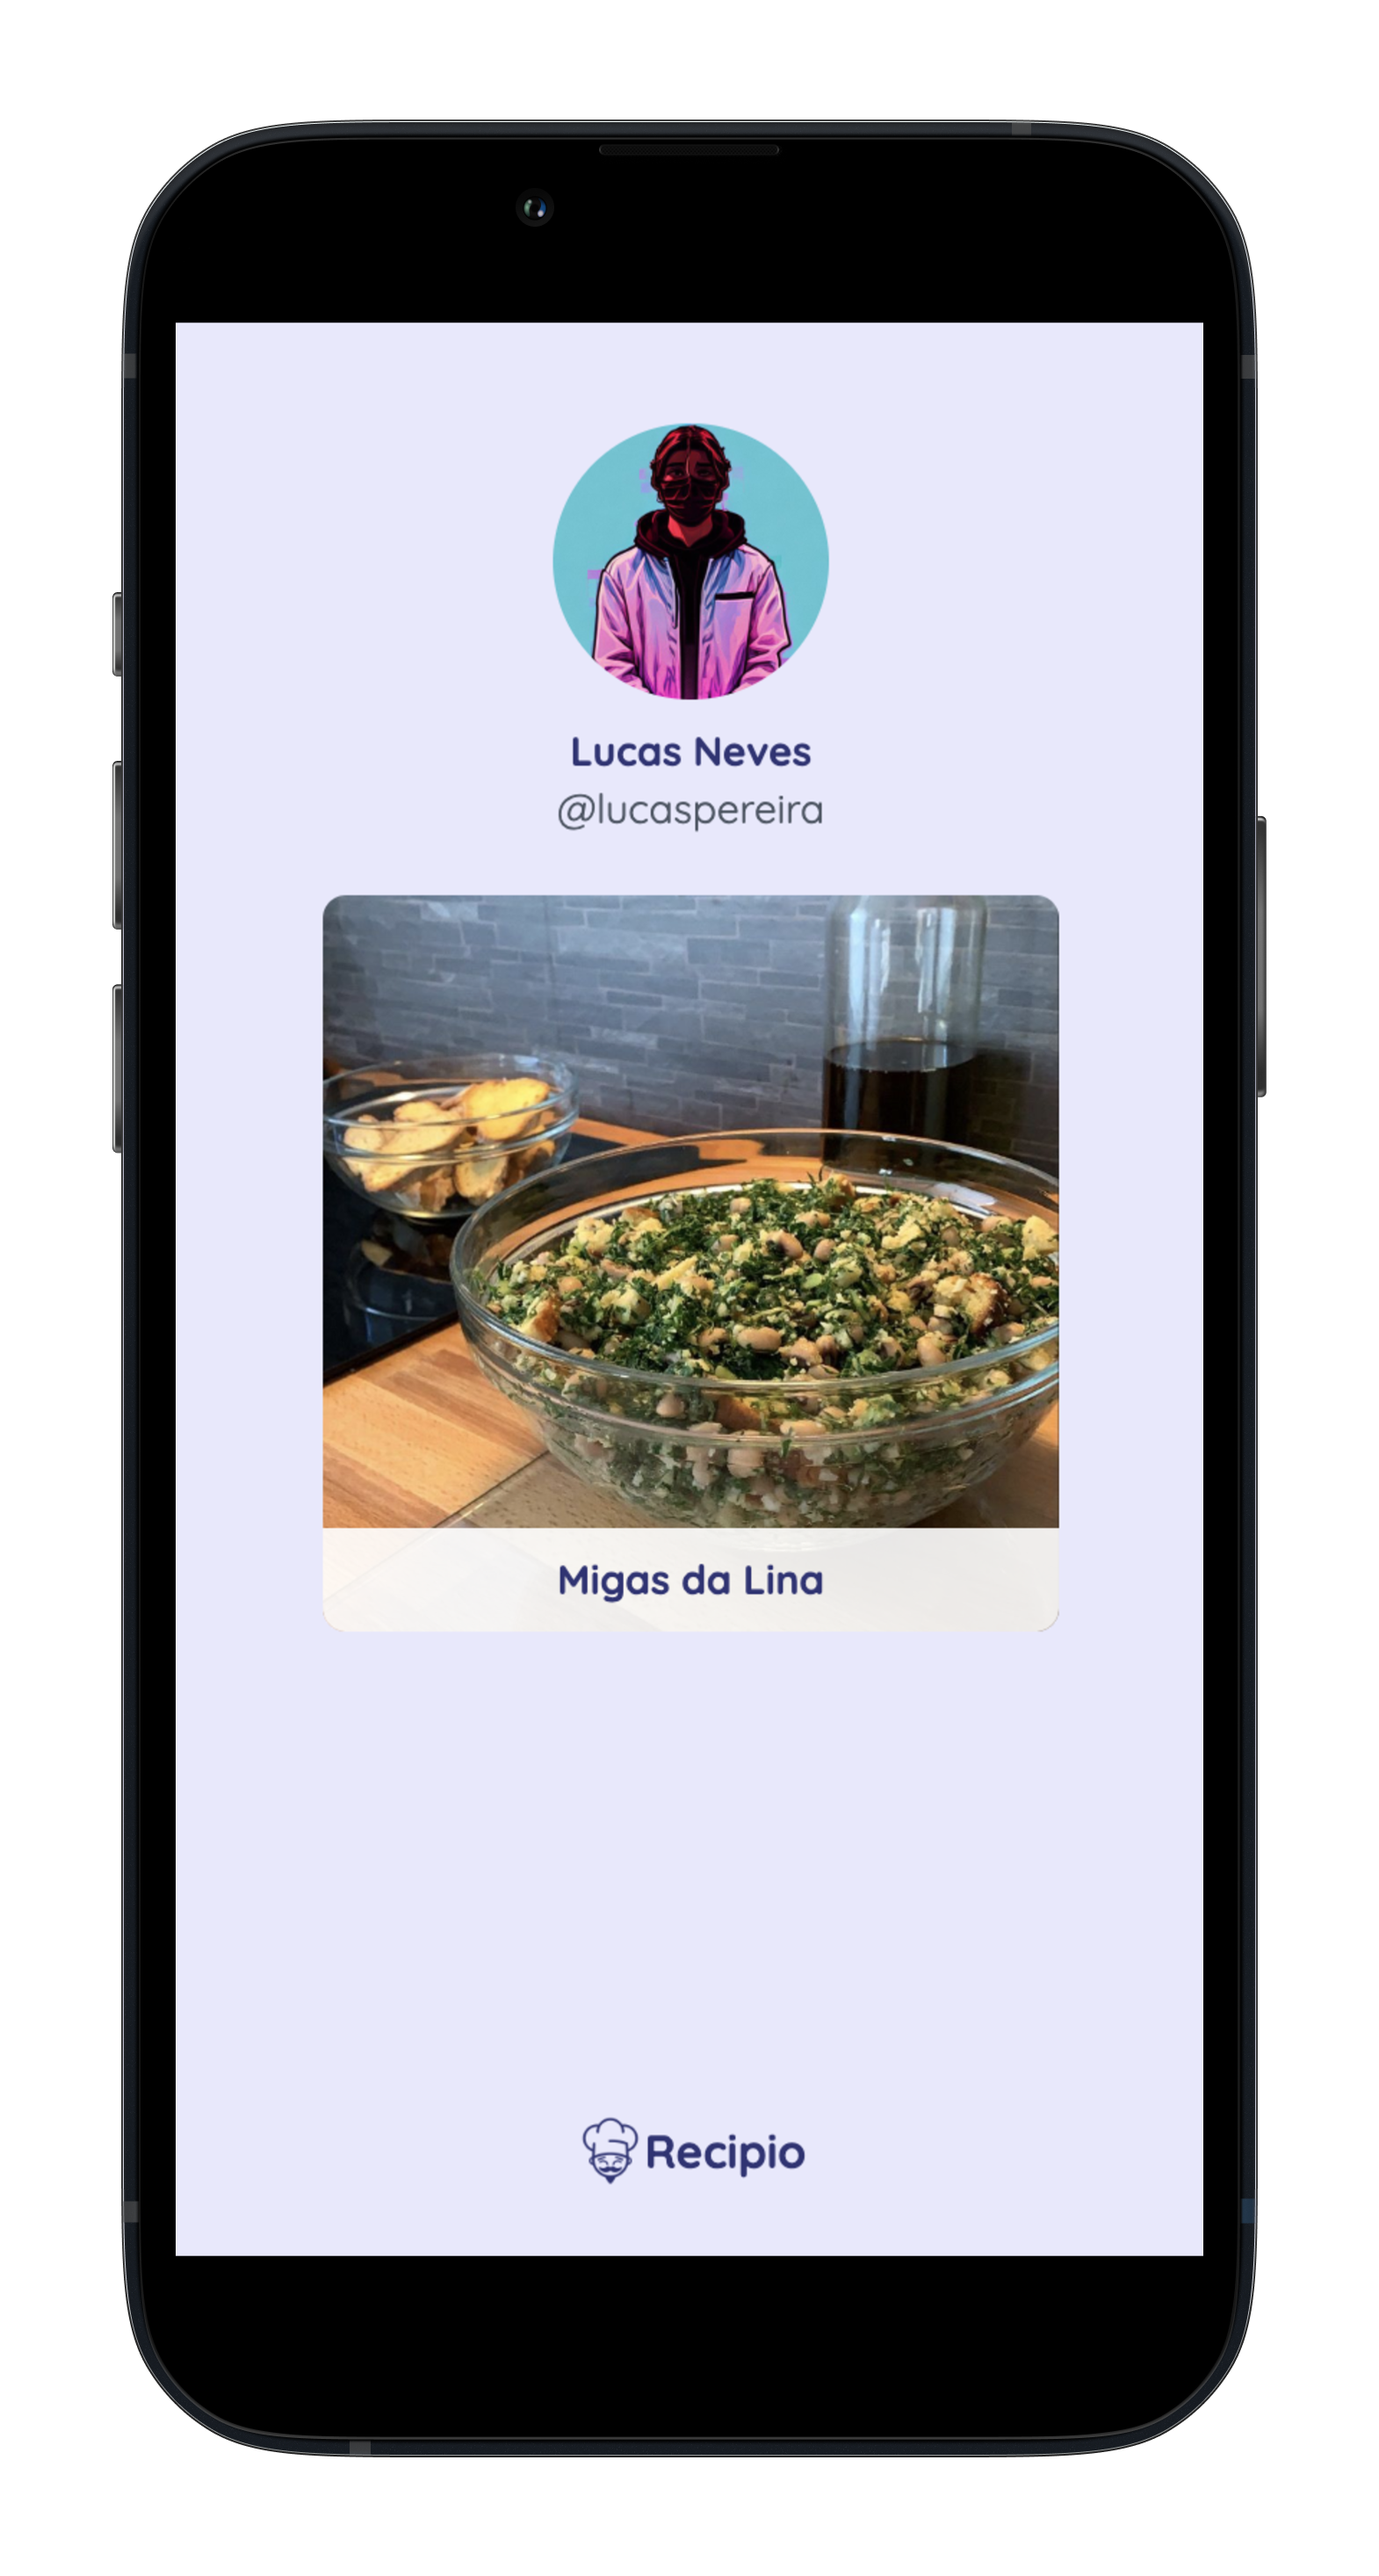
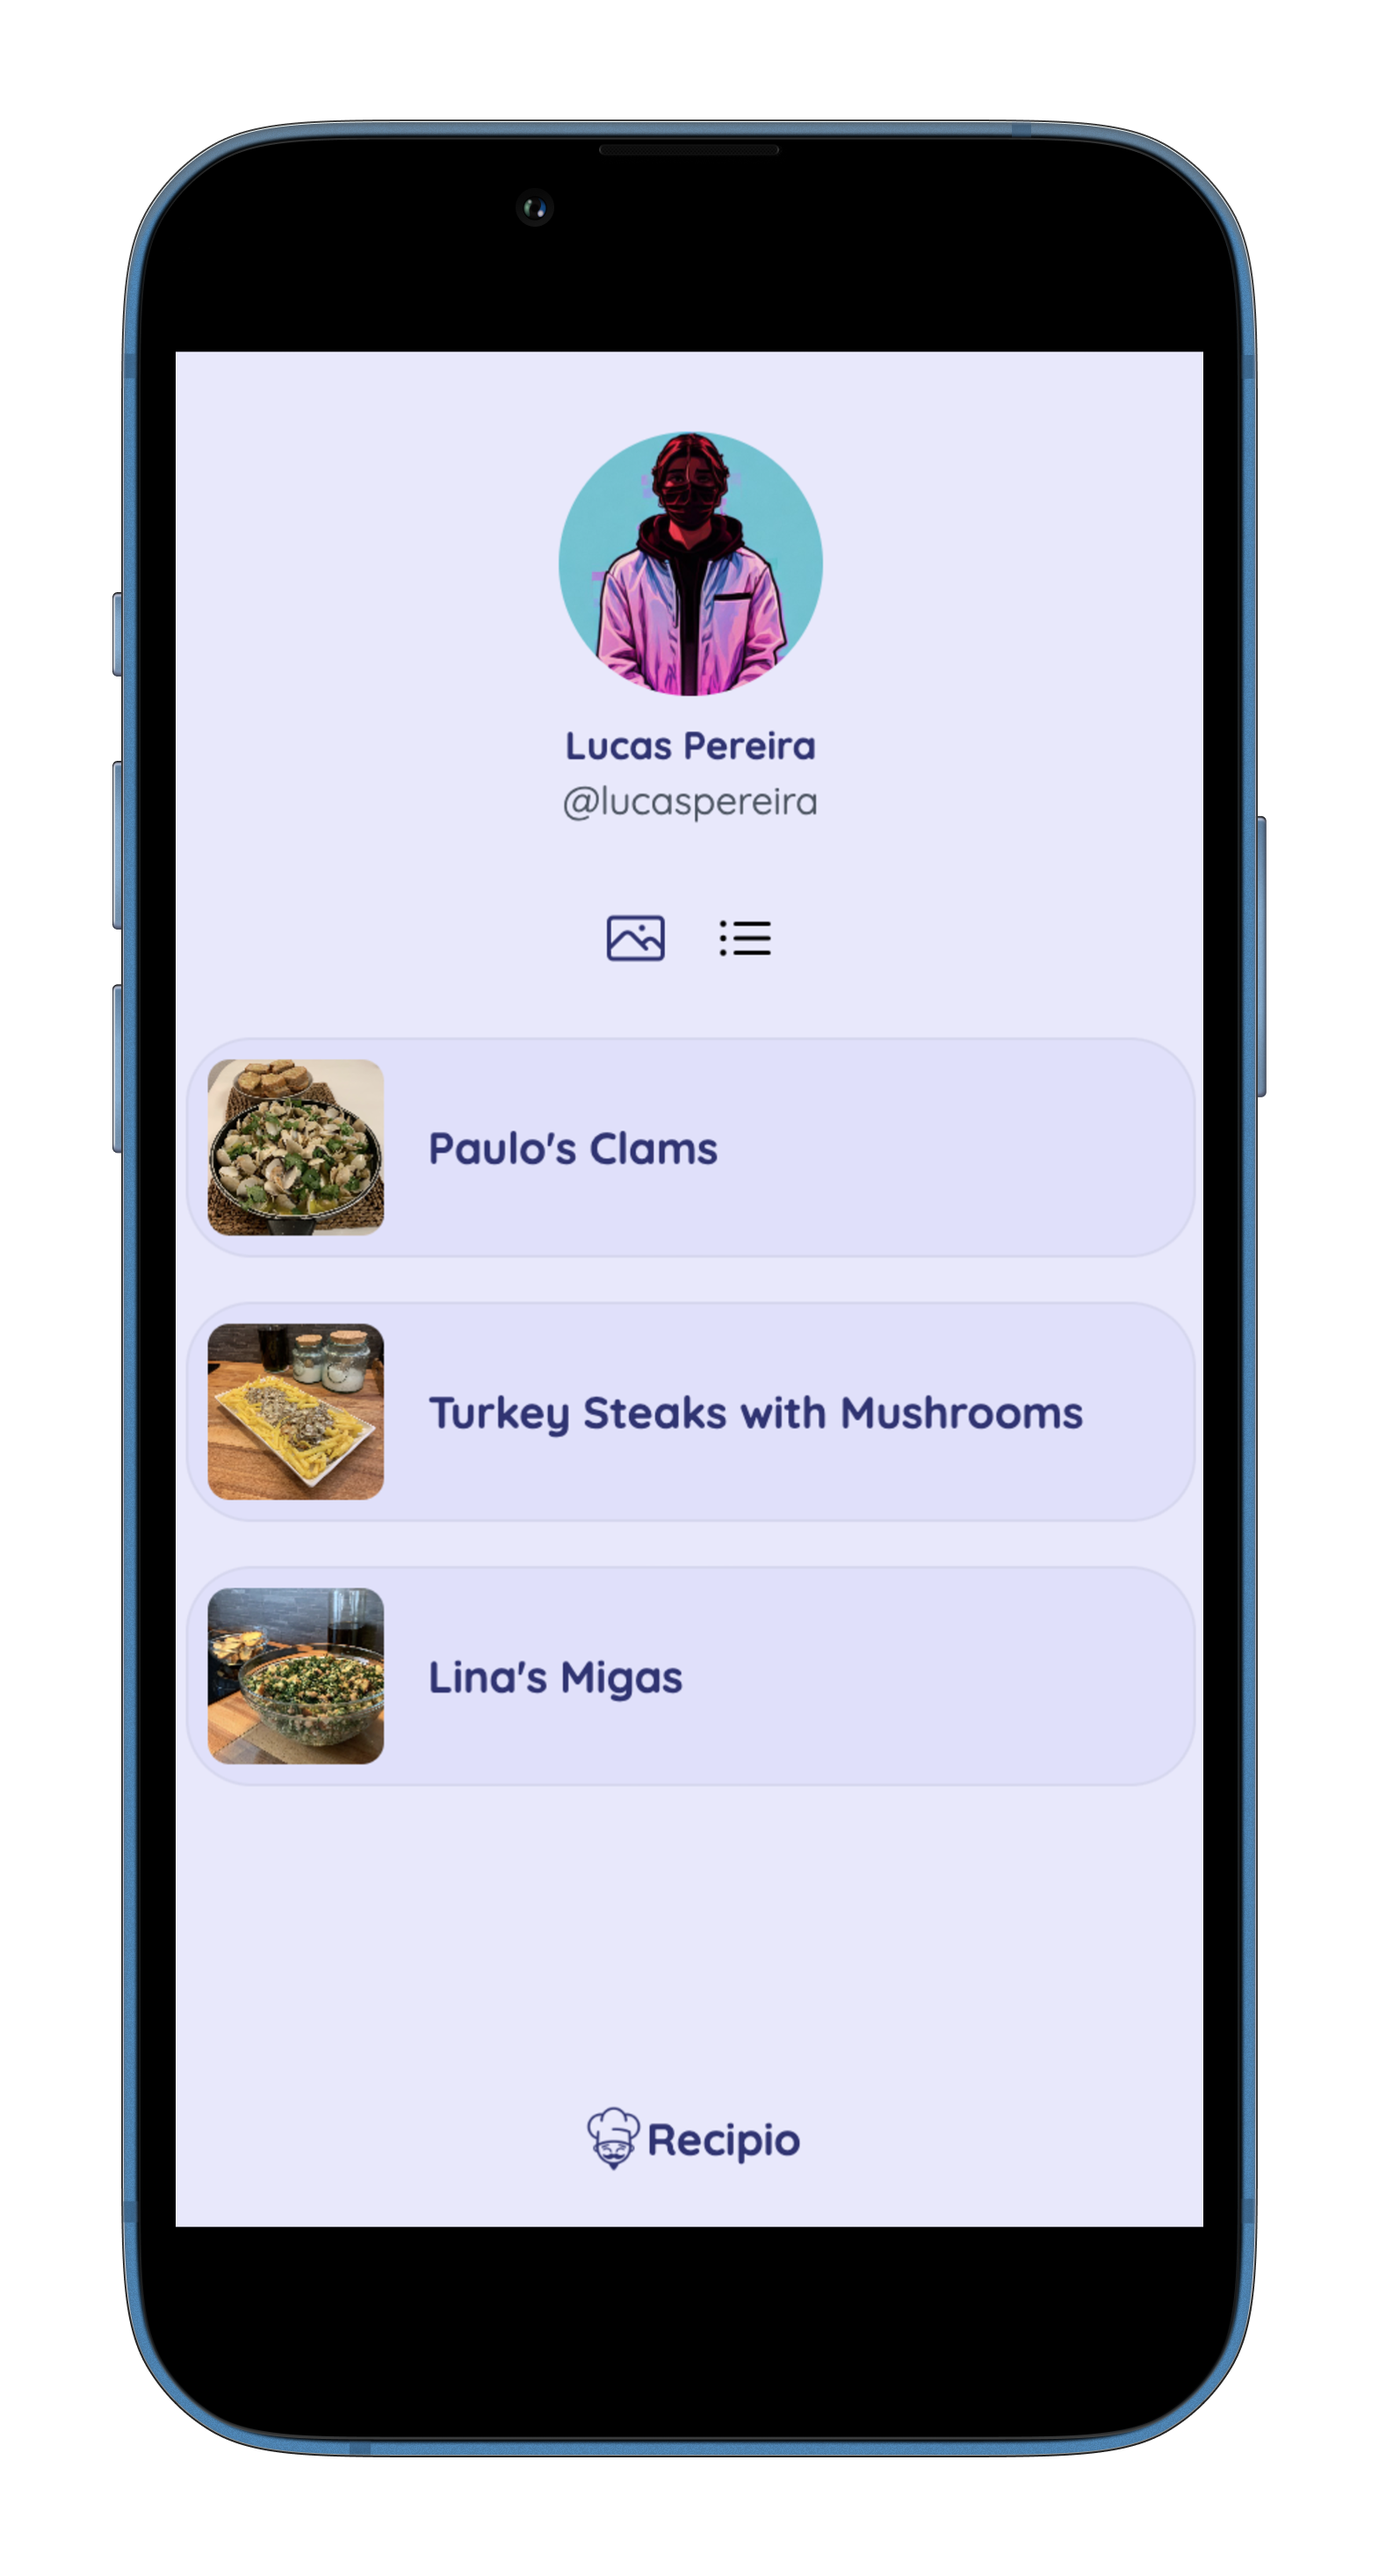
updated mockup + improved viewmode + check safety for window references

Changed region(s): [[0.0624, 0.0621, 0.9363, 0.9311], [0.1248, 0.9311, 0.8739, 0.9621], [0.1561, 0.031, 0.8427, 0.0621]]

diff --git a/src/routes/dashboard/profile/+page.svelte b/src/routes/dashboard/profile/+page.svelte
@@ -4,21 +4,34 @@
     import {applyAction, enhance} from "$app/forms";
     import {Avatar} from "@skeletonlabs/skeleton";
     import {ArrowUpRight, Icon, Pencil, PencilSquare} from "svelte-hero-icons";
+    import {onMount} from "svelte";
 
     export let data;
     export let form;
-    let loading
-    $: loading = false
-    const showPreview = (event) => {
-        const target = event.target
-        const files = target.files
+    let iframeSrc;
 
-        if (files.length > 0) {
-            const src = URL.createObjectURL(files[0])
-            const preview = document.getElementById('avatar-preview')
-            preview.src = src
-        }
+    onMount(() => {
+        iframeSrc = `${window.location.protocol}//${window.location.host}/${data.user.username}`;
+    });
+
+    let loading
+    $: if (typeof window !== 'undefined') {
+        loading = false;
     }
+
+
+    const showPreview = (event) => {
+        if (typeof document !== 'undefined') {
+            const target = event.target;
+            const files = target.files;
+
+            if (files.length > 0) {
+                const src = URL.createObjectURL(files[0]);
+                const preview = document.getElementById('avatar-preview');
+                preview.src = src;
+            }
+        }
+    };
 
     const submitUpdateProfile = () => {
         loading = true
@@ -68,7 +81,8 @@
                             id="avatar-preview"
                             class="w-32 rounded"
                     />
-                    <Icon src={PencilSquare} size="32" class="absolute bottom-1 right-1 p-1 text-white bg-primary-500 rounded-full"/>
+                    <Icon src={PencilSquare} size="32"
+                          class="absolute bottom-1 right-1 p-1 text-white bg-primary-500 rounded-full"/>
                 </label>
                 <input
                         type="file"
@@ -100,8 +114,7 @@
     </div>
     <div class="flex flex-row mx-auto pt-10 lg:p-0">
         <iframe title="preview-iframe" id="preview-iframe" class="preview-iframe"
-                src={`${window.location.protocol}//${window.location.host}/${data.user.username}`}
-                sandbox="allow-same-origin allow-scripts allow-popups"></iframe>
+                src={iframeSrc} sandbox="allow-same-origin allow-scripts allow-popups"></iframe>
     </div>
 </div>
 

diff --git a/src/routes/[username]/+page.svelte b/src/routes/[username]/+page.svelte
@@ -1,6 +1,5 @@
 <script>
     import {getImageURL} from "$lib/utils/image";
-    import {goto} from "$app/navigation";
     import {page} from "$app/stores";
     import ViewModeToggle from "$lib/components/ViewModeToggle.svelte";
     import {onMount} from "svelte";
@@ -8,9 +7,11 @@
 
     const {url} = $page;
     export let data;
-    let viewMode = "gallery";
+    let viewMode;
     onMount(() => {
-        viewMode = localStorage.getItem('viewMode') || "gallery";
+        if (typeof window !== 'undefined') {
+            viewMode = localStorage.getItem('viewMode') || "gallery";
+        }
     });
 </script>
 

diff --git a/src/routes/family/[familySlug]/+page.svelte b/src/routes/family/[familySlug]/+page.svelte
@@ -5,9 +5,11 @@
     import {page} from "$app/stores";
 
     export let data;
-    let viewMode = "gallery";
+    let viewMode;
     onMount(() => {
-        viewMode = localStorage.getItem('viewMode') || "gallery";
+        if (typeof window !== 'undefined') {
+            viewMode = localStorage.getItem('viewMode') || "gallery";
+        }
     });
 
     const {url} = $page;
